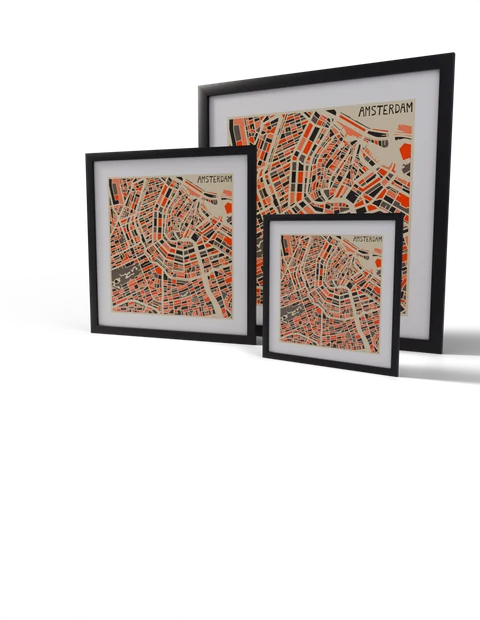
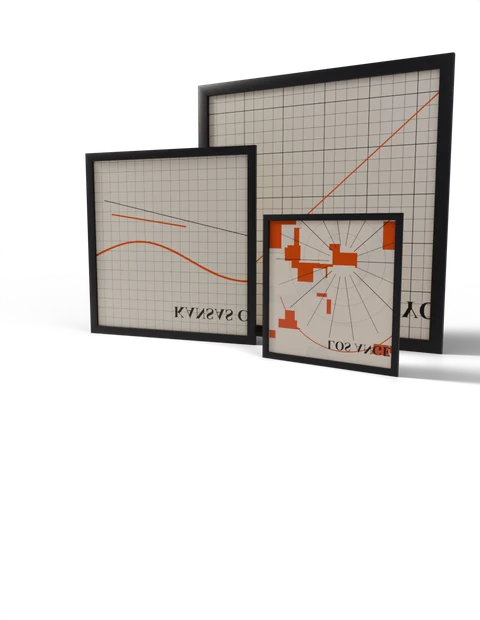
Art frame: procedural NY/KC/LA city map prints (3 distinct cities)

Changed region(s): [[0.1875, 0.0919, 0.9375, 0.5823]]

diff --git a/scripts/_gen_city_map_textures.py b/scripts/_gen_city_map_textures.py
@@ -1,0 +1,101 @@
+"""Generate stylized city-map prints for Kansas City, Los Angeles, New York.
+Style mimics Jazzberry Blue's framed-map series: warm cream background,
+intersecting orange + dark-grey road network, city label top-right.
+Output: scripts/models/city_<key>.png
+"""
+import os, math, random
+from PIL import Image, ImageDraw, ImageFont
+
+OUT = os.path.join(os.path.dirname(__file__), "models")
+os.makedirs(OUT, exist_ok=True)
+
+W = H = 1024
+BG     = (231, 222, 198)        # warm cream
+ORANGE = (211, 88, 50)
+GREY   = (62, 62, 64)
+DARK   = (36, 36, 40)
+LIGHT  = (245, 240, 220)
+
+
+def draw_city(name, key, seed=0, motif="grid"):
+    random.seed(seed)
+    img = Image.new("RGB", (W, H), BG)
+    d = ImageDraw.Draw(img)
+
+    if motif == "grid":
+        # Manhattan / grid streets
+        spacing = 38
+        for x in range(0, W, spacing):
+            d.line([(x, 0), (x, H)], fill=DARK if (x // spacing) % 4 == 0 else GREY,
+                   width=2 if (x // spacing) % 4 == 0 else 1)
+        for y in range(0, H, spacing):
+            d.line([(0, y), (W, y)], fill=DARK if (y // spacing) % 4 == 0 else GREY,
+                   width=2 if (y // spacing) % 4 == 0 else 1)
+        # Diagonal Broadway-ish
+        d.line([(0, 60), (W, H - 100)], fill=ORANGE, width=4)
+        # River-ish on the right
+        for i in range(220):
+            t = i / 220
+            x = int(W - 80 + 30 * math.sin(t * 8))
+            y = int(t * H)
+            d.ellipse([x - 22, y - 4, x + 22, y + 4], fill=BG)
+
+    elif motif == "freeway":
+        # LA — sweeping freeway curves on a radial-ish layout
+        # Background blocks
+        for _ in range(60):
+            x = random.randint(0, W); y = random.randint(0, H)
+            sz = random.randint(40, 110)
+            d.rectangle([x - sz, y - sz, x + sz, y + sz],
+                        fill=ORANGE if random.random() < 0.25 else (245, 230, 200))
+        # Freeway curves
+        cx, cy = W // 2, H // 2 + 80
+        for ang in range(0, 360, 20):
+            r1, r2 = 90, 460
+            ang_r = math.radians(ang)
+            x1, y1 = cx + r1 * math.cos(ang_r), cy + r1 * math.sin(ang_r)
+            x2, y2 = cx + r2 * math.cos(ang_r), cy + r2 * math.sin(ang_r)
+            d.line([(x1, y1), (x2, y2)], fill=DARK, width=3)
+        for r in (160, 260, 360):
+            d.ellipse([cx - r, cy - r, cx + r, cy + r], outline=GREY, width=1)
+        # Big freeway curve
+        d.arc([60, 60, W - 60, H - 60], 200, 340, fill=ORANGE, width=6)
+
+    elif motif == "river":
+        # Kansas City — two rivers (Missouri + Kansas) meeting
+        # Block grid base
+        for x in range(0, W, 48):
+            d.line([(x, 0), (x, H)], fill=GREY, width=1)
+        for y in range(0, H, 48):
+            d.line([(0, y), (W, y)], fill=GREY, width=1)
+        # Missouri river — sweeping curve top-right
+        pts = [(int(W * t), int(H * 0.35 + 80 * math.sin(t * 6) - t * 30))
+               for t in (i / 60 for i in range(61))]
+        for i in range(len(pts) - 1):
+            d.line([pts[i], pts[i + 1]], fill=ORANGE, width=10)
+        # Kansas river — joining from left
+        pts2 = [(int(W * 0.10 + W * 0.4 * t), int(H * 0.55 - 60 * t))
+                for t in (i / 30 for i in range(31))]
+        for i in range(len(pts2) - 1):
+            d.line([pts2[i], pts2[i + 1]], fill=ORANGE, width=8)
+        # Highway crossings
+        d.line([(60, H // 2 + 120), (W - 60, H // 2 - 80)], fill=DARK, width=4)
+
+    # City label top-right
+    try:
+        fnt_lg = ImageFont.truetype("/System/Library/Fonts/Supplemental/Times New Roman Bold.ttf", 78)
+    except Exception:
+        fnt_lg = ImageFont.load_default()
+    label = name.upper()
+    bbox = d.textbbox((0, 0), label, font=fnt_lg)
+    tw = bbox[2] - bbox[0]
+    d.text((W - tw - 56, 50), label, fill=DARK, font=fnt_lg)
+
+    out_path = os.path.join(OUT, f"city_{key}.png")
+    img.save(out_path)
+    print(f"saved {out_path}")
+
+
+draw_city("Kansas City", "kansas_city", seed=12, motif="river")
+draw_city("Los Angeles", "los_angeles", seed=37, motif="freeway")
+draw_city("New York",    "new_york",    seed=99, motif="grid")

diff --git a/scripts/render_mount_objects_v2.py b/scripts/render_mount_objects_v2.py
@@ -248,20 +248,63 @@ def import_glb_at(glb_path, target_height, rot_xyz=(0,0,0),
     return meshes
 
 
+def swap_print_texture(meshes, image_path):
+    """Find the PRINT mesh's material and replace its base-color image with
+    the given file. Used to put a custom city map on each frame instance."""
+    if not os.path.exists(image_path):
+        print(f"  [WARN] missing texture {image_path}")
+        return
+    # Find a mesh whose name contains 'PRINT' OR a mesh whose largest face
+    # has the print material (the flat picture rectangle inside the frame).
+    target_mesh = None
+    for m in meshes:
+        if 'PRINT' in m.name.upper() or 'Print' in m.name:
+            target_mesh = m; break
+    if target_mesh is None:
+        # fallback: pick the mesh with the LARGER flat face area
+        target_mesh = max(meshes, key=lambda m: max((p.area for p in m.data.polygons), default=0))
+    # On its first material, replace any existing image-texture node's image
+    if not target_mesh.data.materials:
+        return
+    mat = target_mesh.data.materials[0]
+    if not (mat and mat.use_nodes):
+        return
+    # Make sure each mesh instance has its OWN material so swapping doesn't
+    # affect other instances of the same GLB.
+    new_mat = mat.copy()
+    target_mesh.data.materials[0] = new_mat
+    nt = new_mat.node_tree
+    img = bpy.data.images.load(image_path)
+    img.colorspace_settings.name = "sRGB"
+    for n in nt.nodes:
+        if n.type == 'TEX_IMAGE':
+            n.image = img
+            print(f"  [{target_mesh.name}] swapped print texture → {os.path.basename(image_path)}")
+            return
+
+
 def compose_art_frame_trio(glb_path):
-    """Three frames at small / medium / large scales, overlapping but each
-    frame's silhouette readable. Sizes 1.0 / 1.6 / 2.2 m tall; arranged
-    left-back / center / right-front so the largest is forward and smaller
-    ones recede behind."""
-    # Large frame (rear-right-ish, dominant)
-    import_glb_at(glb_path, target_height=2.2, rot_xyz=(0, 0, 0),
-                  z_floor=0.0, x_offset=0.45, y_offset=0.40)
-    # Medium frame (left, slightly forward)
-    import_glb_at(glb_path, target_height=1.6, rot_xyz=(0, 0, math.radians(8)),
-                  z_floor=0.0, x_offset=-0.65, y_offset=-0.10)
-    # Small frame (right-front, leaning more toward camera)
-    import_glb_at(glb_path, target_height=1.05, rot_xyz=(0, 0, math.radians(-6)),
-                  z_floor=0.0, x_offset=0.95, y_offset=-0.45)
+    """Three frames — large NEW YORK (rear), medium KANSAS CITY (left),
+    small LOS ANGELES (right-front). Print textures are procedurally
+    generated stylized city maps."""
+    here = os.path.dirname(glb_path)
+    base_glb = os.path.join(here, "sketchfab_art_frame_modern.glb")
+    tex_ny    = os.path.join(here, "city_new_york.png")
+    tex_kc    = os.path.join(here, "city_kansas_city.png")
+    tex_la    = os.path.join(here, "city_los_angeles.png")
+
+    # Large — New York (rear-right, dominant)
+    m_lg = import_glb_at(base_glb, target_height=2.2, rot_xyz=(0, 0, 0),
+                         z_floor=0.0, x_offset=0.45, y_offset=0.40)
+    swap_print_texture(m_lg, tex_ny)
+    # Medium — Kansas City (left, slightly forward)
+    m_md = import_glb_at(base_glb, target_height=1.6, rot_xyz=(0, 0, math.radians(8)),
+                         z_floor=0.0, x_offset=-0.65, y_offset=-0.10)
+    swap_print_texture(m_md, tex_kc)
+    # Small — Los Angeles (right-front, leaning more)
+    m_sm = import_glb_at(base_glb, target_height=1.05, rot_xyz=(0, 0, math.radians(-6)),
+                         z_floor=0.0, x_offset=0.95, y_offset=-0.45)
+    swap_print_texture(m_sm, tex_la)
 
 
 def render_one(key):
